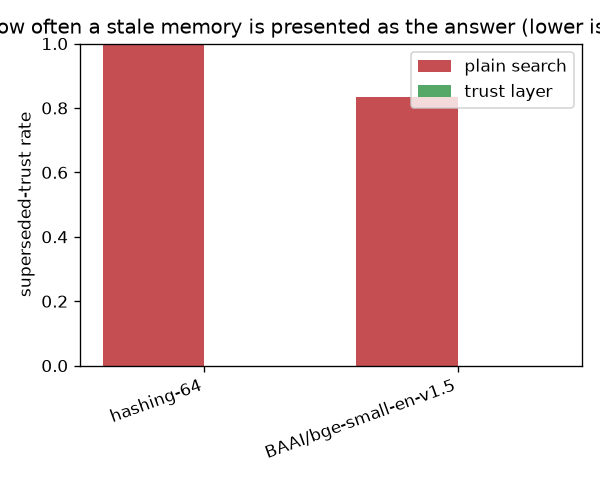
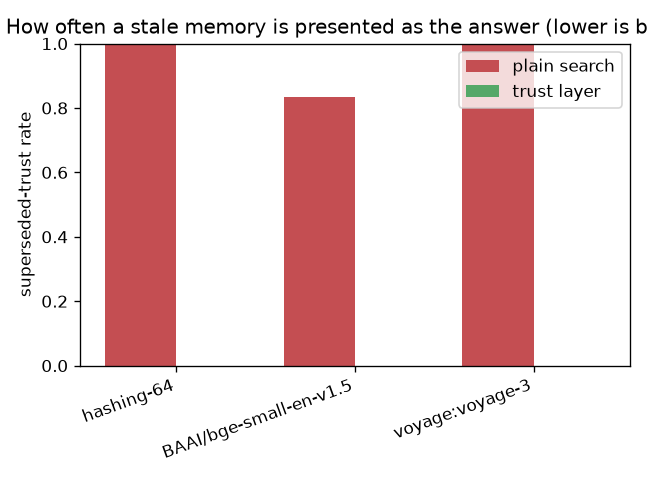
docs+results: entailment/supersession Phase-0 study; regenerated eval tables; v0.3.0
ENTAILMENT_SUPERSESSION_STUDY.md — what the expert comments taught, measured:
the near-miss class is real and threshold-blind (FCR 0.40-1.00); the QNLI
judge transfers with zero per-embedder tuning but is itself the new quality
bound; judge and threshold guard different failure classes (stack them);
the steelman timestamp heuristic still trusts stale memories 83-100% of the
time vs 0.00 for the declared edge. FINDINGS §5, WRITEUP Finding 5 + guards
table, README, RESULTS + charts regenerated (voyage rows re-run on the v0.2
corpus).

Changed region(s): [[0.0, 0.0312, 1.0, 0.9688], [0.24, 0.875, 0.39, 0.9688]]

diff --git a/recall/__init__.py b/recall/__init__.py
@@ -1,3 +1,3 @@
 """recall — Retrieval-Augmented Self-Recall for long-running agents."""
 
-__version__ = "0.2.0"
+__version__ = "0.3.0"

diff --git a/docs/ENTAILMENT_SUPERSESSION_STUDY.md b/docs/ENTAILMENT_SUPERSESSION_STUDY.md
@@ -1,0 +1,156 @@
+# What the comments taught me: entailment vs. threshold, and write-time supersession
+
+> Phase-0 study of the two strongest objections raised against the RE-call design — run on the
+> same harness, reported whether the numbers flattered the objections or not.
+
+Two expert comments on the self-recall writeup made claims sharp enough to test:
+
+1. **"A similarity score is not a confidence score."** The near-misses that hurt are
+   *high-similarity-and-wrong* — memories semantically adjacent to the query that do not answer
+   it — and a threshold-based gap guard waves them straight through, because their similarity
+   clears any calibrated threshold *by construction*. The abstention signal cannot be the
+   retriever's own score; it needs a separate judgment that the memory actually **entails** an
+   answer. Proximity is a candidate; entailment is the evidence.
+2. **"Supersession is a relation, not a property."** Timestamps fail because you are inferring a
+   relation between two memories at read time, when both look valid in isolation. Capture the
+   relation at **write time** (the new memo names what it replaces) and retrieval returns the
+   head of the chain. The residual failure mode — an author forgetting the link — is a much
+   better place to fail, because it is *lintable*.
+
+Both claims turn out to be substantially right. Neither turns out to be the whole story.
+
+---
+
+## 1. The near-miss class exists, and the threshold cannot see it (as predicted)
+
+We added a held-out challenge set of 10 **near-miss queries**: each names a distractor document
+that is strongly on-topic but does not contain the asked-for fact ("how much did the
+read-through cache reduce **memory usage**" against a memo that measures *latency*; "what
+**constant k** do we use in RRF" against a memo that defines the formula but never states the
+constant). The set is deliberately excluded from threshold calibration — a challenge set must
+not tune the guard it challenges.
+
+Baseline (calibrated cosine threshold, the v0.2 status quo), near-miss false-confident rate:
+
+| embedder | near-miss FCR @ calibrated threshold |
+|---|---|
+| hashing-64 | 1.00 |
+| bge-small | 0.80 |
+| voyage-3 | 0.40 |
+
+The commenter's mechanism is confirmed: these queries score *above* the answerable floor —
+the same threshold that scores FCR 0.00 on far-gap queries (FINDINGS §2) passes 40–100% of
+near-misses. There is no threshold to fix; the distractor's cosine is genuinely high.
+
+## 2. An entailment stage helps — as a *layer*, not a replacement
+
+We added an optional entailment stage (`recall/entailment.py`, `pip install recall[entail]`,
+OFF by default): a QNLI cross-encoder — "does this sentence answer this question?" — judges the
+verdict-ok hits, and an ok hit that does not entail the query is demoted to a new verdict
+`not_entailed`. The decision happens at the judge's own trained boundary; **there is no
+per-embedder constant to recalibrate**, which is the property Finding 2 said a score threshold
+cannot have. Three arms, same judge everywhere, zero per-embedder tuning:
+
+| embedder | arm | near-miss FCR | gap FCR | false-abstain | MRR ans | judge ms/query |
+|---|---|---|---|---|---|---|
+| hashing-64 | threshold | 1.00 | 1.00 | 0.00 | 0.696 | 0 |
+| hashing-64 | threshold+entail | **0.60** | 0.20 | 0.21 | 0.714 | 652 |
+| hashing-64 | entail-only | 0.60 | 0.40 | 0.07 | 0.881 | 1133 |
+| bge-small | threshold | 0.80 | 0.00 | 0.00 | 1.000 | 0 |
+| bge-small | threshold+entail | **0.50** | 0.00 | 0.07 | 0.929 | 184 |
+| bge-small | entail-only | 0.80 | 0.40 | 0.07 | 0.929 | 1061 |
+| voyage-3 | threshold | 0.40 | 0.00 | 0.00 | 1.000 | 0 |
+| voyage-3 | threshold+entail | 0.40 | 0.00 | 0.07 | 0.929 | 140 |
+| voyage-3 | entail-only | 0.80 | 0.40 | 0.07 | 0.929 | 1085 |
+
+(Latency measured on CPU. The judge column averages over the queries where the judge actually
+ran — in the stacked arm, queries the threshold already abstained on never reach the judge,
+which is also why stacking is much cheaper than entail-only.)
+
+Four honest readings:
+
+- **It works, transferably.** The stacked arm cuts near-miss FCR on the two embedders with
+  headroom (1.00→0.60, 0.80→0.50) and never hurts it, *with the identical judge and no
+  recalibration anywhere*. The claim "a decision, not a score, sidesteps the transfer problem"
+  survives contact with the data.
+- **It does not replace the threshold — the ablation kills that idea.** Judge-alone *degrades*
+  far-gap detection (gap FCR 0.00→0.40 on both semantic embedders): the QNLI judge, fed
+  nearest-noise from an uncovered topic, sometimes calls it an answer. The threshold catches
+  far gaps; the judge catches near-misses; **they guard different failure classes and must be
+  stacked**. The commenter's thesis needed this refinement.
+- **The judge is the new quality bound.** The residual FCR (0.40–0.60) is all one class: the
+  five surviving near-misses ask for a *specific absent detail* (a multiplier, a constant, a
+  duration, an affected-user count) inside a strongly on-topic memo, and a small QNLI model
+  judges "on-topic" as "answers". Finding 2 said gap detection is bounded by the embedder;
+  the same law applies one layer up — **abstention-by-entailment is bounded by the judge.**
+  A stronger judge (large NLI model, LLM-as-judge) is the obvious next experiment; the harness
+  now measures exactly that trade.
+- **The cost is real and must be stated.** ~140–650 ms/query on CPU (100× the plain search),
+  and a new false-abstain failure: the judge rejects one legitimately answerable query (1/14)
+  on *both* semantic embedders — q02, whose gold memo answers by **negation** ("do we retry on
+  4xx?" → "we do **not** retry on 4xx"). MRR on answerable queries dips 1.000→0.929
+  accordingly. Killing near-misses is not free.
+
+The cross-encoder *reranker* already in the stack is not this feature, and the distinction
+matters: it scores query+memo jointly but only **reorders** — the score is still thresholded
+downstream, so it inherits the calibration problem. The entailment stage emits a decision.
+
+## 3. Supersession: the timestamp heuristic loses to the declared relation
+
+v0.2 already implements the commenter's proposal — `supersedes:` frontmatter captured at write
+time, chain resolution, successor promotion (FINDINGS §4). What the harness lacked was the
+explicit strawman-vs-steelman comparison: *would timestamps have been enough?*
+
+We added a recency arm: **"among the confidently-relevant hits, trust the newest"** — the
+strongest reasonable version of the timestamp heuristic (pool = hits above the same calibrated
+threshold the guards use; a global newest-wins would be a strawman). The stale documents are
+re-indexed *after* the successors, simulating the re-sync/touch any living corpus performs
+constantly. Re-indexing identical text changes only `indexed_at`, so the other measurements are
+unaffected.
+
+| embedder | STR plain search | STR recency (steelman) | STR trust layer |
+|---|---|---|---|
+| hashing-64 | 1.00 | 0.83 | **0.00** |
+| bge-small | 0.83 | **1.00** | **0.00** |
+| voyage-3 | 1.00 | 1.00 | **0.00** |
+
+The timestamp heuristic trusts the stale memory 83–100% of the time — and on bge-small it is
+*worse than plain relevance ranking* (1.00 vs 0.83): the tie-break actively promotes the
+freshly-re-synced stale memo in the one case where ranking had preferred the successor. A
+per-document timestamp cannot see a two-document relation; making the timestamp "smarter"
+makes it more confidently wrong. The declared relation stays at 0.00 in the same runs.
+
+## 4. The residual failure mode is now lintable (`recall lint`)
+
+The write-time design fails exactly where the commenter said: an author who closes a decision
+without declaring the edge leaves an orphan that looks valid forever. That is invisible at
+read time — both memos are individually fine — but it is **checkable at write time**.
+`recall lint <corpus>` (no DB, no embedder) reports:
+
+- errors that break trust-layer correctness: `dangling-supersedes` (edge to a nonexistent
+  file), `self-supersedes`, `supersession-cycle`, `invalid-date`;
+- warnings that usually mean a missing edge: `version-sibling-unlinked` (`x_v1.md`/`x_v2.md`
+  naming with no edge) and `closure-marker-unlinked` (the body *says* "superseded/replaced by"
+  but the frontmatter declares nothing — the relation exists only in prose, where retrieval
+  cannot act on it).
+
+Exit code 1 on errors, so it drops into CI in one line. Both corpora in this repo pass clean.
+
+## 5. What changed in the repo
+
+- `recall/entailment.py` — `EntailmentJudge` protocol, `QnliEntailmentJudge`,
+  `apply_entailment()`; `trusted_search(..., entailment=judge)` opt-in; verdict `not_entailed`.
+- `recall/eval/near_miss.json` — 10 held-out near-miss queries; `run_nearmiss_eval()` scores
+  the three arms; `results/nearmiss_effect.png`.
+- `run_trust_eval()` — recency-steelman arm (`STR recency` column).
+- `recall/lint.py` + `recall lint` CLI — supersession-graph completeness checks.
+- All measured numbers reproduce with `make eval` (Voyage rows appear when `VOYAGE_API_KEY`
+  is set).
+
+## 6. Decision
+
+Entailment ships **OFF by default** as an optional stacked stage — proven useful against
+near-misses on this corpus, at a measured latency and false-abstain cost the caller must opt
+into, with the judge (not the threshold) now the binding quality constraint. The recency
+comparison closes the "why not just timestamps?" question with numbers. The lint closes the
+authorial gap in write-time supersession.

diff --git a/results/FINDINGS.md b/results/FINDINGS.md
@@ -119,3 +119,40 @@ superseded-trust rate: how often a stale memory is presented as the answer (lowe
   calibration comes from a small labeled query set (see §2 for why it must be per-embedder).
 
 Reproduce: `make eval` → the trust table in `RESULTS.md` + `results/trust_effect.png`.
+
+**Timestamps are not a substitute (steelman tested).** The trust table's `STR recency` column
+scores the strongest reasonable timestamp heuristic — "among the confidently-relevant hits,
+trust the newest", with the stale docs re-synced after their successors, as any living corpus
+does constantly. It trusts the stale memory 83–100% of the time, and on bge-small it is *worse
+than plain ranking* (1.00 vs 0.83): the tie-break promotes the freshly-touched stale memo
+exactly where ranking had preferred the successor. A per-document timestamp cannot see a
+two-document relation. Full discussion:
+[docs/ENTAILMENT_SUPERSESSION_STUDY.md §3](../docs/ENTAILMENT_SUPERSESSION_STUDY.md).
+
+## 5. Entailment abstention: the near-miss class needs a judge, and the judge needs the threshold
+
+The calibrated threshold (§2) catches *far* gaps; it cannot catch the **near-miss** — a
+high-similarity memory that does not answer the query — because the distractor's cosine clears
+any threshold by construction. On a held-out 10-query near-miss set (excluded from
+calibration), the threshold's false-confident rate is 0.40–1.00 per embedder.
+
+v0.3 adds an optional entailment stage (`recall[entail]`, OFF by default): a QNLI cross-encoder
+judges the verdict-ok hits and demotes non-answering ones to `not_entailed`. The decision is at
+the judge's own trained boundary — no per-embedder constant to recalibrate, and none was tuned:
+
+| embedder | near-miss FCR: threshold → +entail | gap FCR | false-abstain cost | judge ms/query |
+|---|---|---|---|---|
+| hashing-64 | 1.00 → **0.60** | 1.00 → 0.20 | 0.00 → 0.21 | 652 |
+| bge-small | 0.80 → **0.50** | 0.00 → 0.00 | 0.00 → 0.07 | 184 |
+| voyage-3 | 0.40 → 0.40 | 0.00 → 0.00 | 0.00 → 0.07 | 140 |
+
+Honest reading: the same judge transfers across embedders with zero retuning (the property a
+score threshold provably lacks, §2) — but the **judge-alone ablation degrades far-gap detection**
+(gap FCR 0.00→0.40): threshold and judge guard *different failure classes* and must be stacked.
+The residual near-miss FCR is the judge's own quality bound (a small QNLI model reads
+"on-topic" as "answers" when the query asks for an absent detail), and the cost is real:
+~100× latency and one answerable query (a *negation* answer: "we do **not** retry on 4xx")
+wrongly rejected on both semantic embedders. §2's law, one layer up: **abstention quality is
+bounded by the judge.** Full tables + arms:
+[docs/ENTAILMENT_SUPERSESSION_STUDY.md](../docs/ENTAILMENT_SUPERSESSION_STUDY.md) and the
+near-miss table in `RESULTS.md`.

diff --git a/results/RESULTS.md b/results/RESULTS.md
@@ -10,12 +10,32 @@ Reproduce the local (key-free) rows with `make eval` — needs Docker + the loca
 | BAAI/bge-small-en-v1.5 | dense | 0.200 | 1.000 | 0.964 | 0.974 | 1.00 | 1.00 |
 | BAAI/bge-small-en-v1.5 | hybrid | 0.200 | 1.000 | 1.000 | 1.000 | 1.00 | 1.00 |
 | BAAI/bge-small-en-v1.5 | hybrid+rerank | 0.200 | 1.000 | 1.000 | 1.000 | 1.00 | 1.00 |
+| voyage:voyage-3 | dense | 0.200 | 1.000 | 1.000 | 1.000 | 1.00 | 0.00 |
+| voyage:voyage-3 | hybrid | 0.200 | 1.000 | 1.000 | 1.000 | 1.00 | 0.00 |
+| voyage:voyage-3 | hybrid+rerank | 0.200 | 1.000 | 1.000 | 1.000 | 1.00 | 0.00 |
 
 ## Trust layer — superseded/expired memories vs plain search
 
 STR = superseded-trust rate: how often a stale memory was presented as the answer on the validity-sensitive queries (lower is better). The final two columns verify the trust layer does not change ordinary answerable retrieval.
 
-| embedder | STR baseline | STR trust | successor acc | abstain acc | MRR ans (base) | MRR ans (trust) |
-|---|---|---|---|---|---|---|
-| hashing-64 | 1.00 | 0.00 | 0.25 | 0.00 | 0.737 | 0.737 |
-| BAAI/bge-small-en-v1.5 | 0.83 | 0.00 | 0.75 | 1.00 | 1.000 | 1.000 |
+| embedder | STR baseline | STR recency | STR trust | successor acc | abstain acc | MRR ans (base) | MRR ans (trust) |
+|---|---|---|---|---|---|---|---|
+| hashing-64 | 1.00 | 0.83 | 0.00 | 0.25 | 0.00 | 0.737 | 0.737 |
+| BAAI/bge-small-en-v1.5 | 0.83 | 1.00 | 0.00 | 0.75 | 1.00 | 1.000 | 1.000 |
+| voyage:voyage-3 | 1.00 | 1.00 | 0.00 | 0.75 | 1.00 | 1.000 | 1.000 |
+
+## Entailment abstention — near-miss queries (arms A/B/C)
+
+Near-miss = a high-similarity memory that does NOT answer the query — the class a cosine threshold passes by construction. Arms: `threshold` = calibrated cosine threshold (status quo), `threshold+entail` = threshold plus the QNLI judge, `entail-only` = judge alone (ablation). The judge is identical across embedders — no per-embedder recalibration.
+
+| embedder | arm | near-miss FCR | gap FCR | false-abstain | MRR ans | judge ms/query | total ms/query |
+|---|---|---|---|---|---|---|---|
+| hashing-64 | threshold | 1.00 | 1.00 | 0.00 | 0.696 | 0 | 4 |
+| hashing-64 | threshold+entail | 0.60 | 0.20 | 0.21 | 0.714 | 652 | 658 |
+| hashing-64 | entail-only | 0.60 | 0.40 | 0.07 | 0.881 | 1133 | 1139 |
+| BAAI/bge-small-en-v1.5 | threshold | 0.80 | 0.00 | 0.00 | 1.000 | 0 | 24 |
+| BAAI/bge-small-en-v1.5 | threshold+entail | 0.50 | 0.00 | 0.07 | 0.929 | 184 | 168 |
+| BAAI/bge-small-en-v1.5 | entail-only | 0.80 | 0.40 | 0.07 | 0.929 | 1061 | 1089 |
+| voyage:voyage-3 | threshold | 0.40 | 0.00 | 0.00 | 1.000 | 0 | 332 |
+| voyage:voyage-3 | threshold+entail | 0.40 | 0.00 | 0.07 | 0.929 | 140 | 439 |
+| voyage:voyage-3 | entail-only | 0.80 | 0.40 | 0.07 | 0.929 | 1085 | 1420 |

diff --git a/docs/WRITEUP.md b/docs/WRITEUP.md
@@ -56,7 +56,9 @@ These are the point of the project. Each one converts a silent failure into an e
 | Guard | Silent failure it prevents | Mechanism |
 |---|---|---|
 | **`gap_warning`** | Confident retrieval on an uncovered topic | If the best dense cosine for a query is below a calibrated threshold, the result is flagged "probable corpus gap — treat as noise" instead of returning nearest-noise as if it were an answer. |
-| **trust verdicts + abstention** (v0.2) | Confidently building on a memory that is no longer true | Every hit returns confidence + provenance + validity: a verdict (`ok / superseded / expired / not_yet_valid / low_confidence / invalid_metadata`), a calibrated confidence, and `indexed_at`. A superseded or out-of-window memory loses to its retrieved successor — or, when no valid hit clears the calibrated threshold, to an explicit abstention with a reason. |
+| **trust verdicts + abstention** (v0.2) | Confidently building on a memory that is no longer true | Every hit returns confidence + provenance + validity: a verdict (`ok / superseded / expired / not_yet_valid / low_confidence / invalid_metadata / not_entailed`), a calibrated confidence, and `indexed_at`. A superseded or out-of-window memory loses to its retrieved successor — or, when no valid hit clears the calibrated threshold, to an explicit abstention with a reason. |
+| **entailment stage** (v0.3, opt-in) | Confident retrieval on a *near-miss* — a high-similarity memory that does not answer the query, which clears any cosine threshold by construction | An optional QNLI cross-encoder judges the verdict-ok hits ("does this sentence answer this question?") and demotes non-answering ones to `not_entailed`. A decision at the judge's own boundary, not another score to threshold — so nothing to recalibrate per embedder. OFF by default; measured cost and limits in [Finding 5](#finding-5--entailment-abstention-a-judged-decision-stacked-on-the-threshold-not-a-replacement). |
+| **`recall lint`** (v0.3) | An author closing a decision without declaring the supersession edge — an orphan memo that looks valid forever | Write-time completeness checks on the supersession graph (dangling/self/cyclic edges, malformed dates, version-sibling and closed-in-prose smells). No DB needed; exit 1 on errors, CI-ready. |
 | **freshness / staleness** | Serving stale memory as current | Every result reports how old the newest indexed content is; a stale index warns instead of silently serving rot. |
 | **anti-re-litigation** | Re-deciding a settled question | The intended call pattern: an agent runs `search()` *before* proposing an idea; a surfaced closed decision (that is **not** itself a `gap_warning`) tells it to back off. Demonstrated end-to-end in [`examples/self_recall_agent.py`](../examples/self_recall_agent.py). |
 
@@ -156,7 +158,25 @@ returns the superseded/expired memory as the answer 83-100% of the time; the tru
 presents it as trustworthy (superseded-trust rate 0.00 on both embedders) at zero cost to
 ordinary retrieval (identical answerable MRR). Abstention on expired-only queries works on the
 calibrated semantic embedder (2/2) and not at all on the weak one (0/2) - the same
-embedder-bound limit as Finding 2. Full table + limits: [FINDINGS.md §4](../results/FINDINGS.md).
+embedder-bound limit as Finding 2. The eval also scores the *steelman* timestamp alternative —
+"among the confidently-relevant hits, trust the newest", with stale docs re-synced later as any
+living corpus does: it trusts the stale memory 83–100% of the time and on bge-small is worse
+than plain ranking. Supersession is a relation between two documents; a per-document timestamp
+cannot see it. Full table + limits: [FINDINGS.md §4](../results/FINDINGS.md).
+
+### Finding 5 — entailment abstention: a judged decision stacked on the threshold, not a replacement
+
+The calibrated threshold cannot see the **near-miss** class — a high-similarity memory that
+does not answer the query (baseline false-confident rate 0.40–1.00 on a held-out 10-query
+challenge set). An optional QNLI judge (v0.3, `recall[entail]`, OFF by default) demotes
+non-answering hits and cuts near-miss FCR to 0.40–0.60 with the *identical judge on every
+embedder — no recalibration*, the transfer property Finding 2 proved a score threshold lacks.
+The ablation is the honest half: judge-alone *degrades* far-gap detection (0.00→0.40) — the
+threshold and the judge guard different failure classes and must be stacked — and the costs
+are measured: ~100× latency, one negation-phrased answerable query wrongly rejected (MRR
+1.000→0.929). Abstention quality is bounded by the judge, exactly as gap detection is bounded
+by the embedder. Full study:
+[docs/ENTAILMENT_SUPERSESSION_STUDY.md](ENTAILMENT_SUPERSESSION_STUDY.md).
 
 ## 4. What this demonstrates
 

diff --git a/README.md b/README.md
@@ -43,6 +43,8 @@ retrieves **before** the agent acts, returns **confidence + provenance + validit
 - 🎯 **Calibrated abstention** — the confidence threshold is calibrated *per embedder* against a labelled query set (`recall calibrate`); when no valid hit clears it, the result abstains with a reason instead of answering.
 - ⏱️ **Freshness-aware** — every result reports how stale the index is, so a rotting memory warns instead of silently serving old facts.
 - 🔁 **Anti-re-litigation** — meant to be queried *before* re-proposing an idea, so closed decisions and falsified hypotheses resurface first.
+- ⚖️ **Entailment stage (opt-in)** — a QNLI judge catches the **near-miss**: a high-similarity memory that doesn't actually answer the query (which clears any cosine threshold *by construction*). A decision, not another score — nothing to recalibrate per embedder. OFF by default; measured cost in [Finding 5](results/FINDINGS.md).
+- 🧹 **`recall lint`** — write-time checks on the supersession graph (dangling/cyclic `supersedes:`, versioned siblings with no edge, closures declared only in prose). No DB needed; exit 1 on errors, CI-ready.
 - 🧱 **Production-shaped** — PostgreSQL + pgvector, hybrid dense + full-text retrieval fused with RRF, cross-encoder reranking, and an MCP server. Integration-tested on a real database.
 
 ## 🧭 How it works
@@ -99,7 +101,7 @@ precision@k, recall@k, MRR, nDCG, and a guard-specific **false-confident rate**.
   <img src="results/guard_effect.png" width="48%" alt="Guard effect: false-confident rate on unanswerable queries">
 </p>
 
-Four **honest** findings — including what *didn't* work:
+Six **honest** findings — including what *didn't* work:
 
 - 🧾 **Similarity cannot see supersession — the trust layer can.** On validity-sensitive queries
   (worded deliberately closer to the *stale* memory), plain search returns the superseded/expired
@@ -118,10 +120,22 @@ Four **honest** findings — including what *didn't* work:
   corpus the base already saturates (Δ **+0.00**); on an opaque-jargon corpus it can't decode,
   fine-tuning lifts held-out MRR **0.31 → 0.55 (+79%)** and generalizes to unseen paraphrases.
   → *Measure the base–corpus gap before fine-tuning.* **[Read the study →](docs/RAG_TRAINING_STUDY.md)**
+- ⚖️ **Near-misses need a judge — and the judge needs the threshold.** On a held-out set of
+  high-similarity-but-wrong queries the calibrated threshold is blind (FCR **0.40–1.00**, by
+  construction); an optional QNLI entailment stage cuts it (**1.00→0.60, 0.80→0.50**) with the
+  *identical judge on every embedder, zero recalibration* — but judge-alone *degrades* far-gap
+  detection (0.00→0.40): they guard **different failure classes, so stack them**. Costs measured:
+  ~100× latency, one negation-phrased answer wrongly rejected.
+  **[Read the study →](docs/ENTAILMENT_SUPERSESSION_STUDY.md)**
+- ⏰ **Timestamps cannot replace declared supersession — even steelmanned.** "Trust the newest
+  relevant hit" (stale docs re-synced later, as real corpora constantly do) still trusts the stale
+  memory **83–100%** of the time — and on bge-small it's *worse than plain ranking*. Supersession
+  is a relation between two documents; a per-document timestamp can't see it. The declared
+  `supersedes:` edge stays at **0.00** in the same runs.
 
 > Full methodology + per-embedder tables → **[results/FINDINGS.md](results/FINDINGS.md)**.
 
-✅ **117 tests — the DB-touching ones against a real pgvector container** (no mock DB), verified in CI, with a
+✅ **141 tests — the DB-touching ones against a real pgvector container** (no mock DB), verified in CI, with a
 dependency audit.
 
 ## 🏭 Where this comes from
@@ -152,6 +166,7 @@ Default embedder is local **FastEmbed** (no key); `--embedder hashing` is a full
 python -m recall.cli index ./path/to/markdown   # index your own docs
 python -m recall.cli search "your question"     # -> verdicts + confidence + gap/freshness flags
 python -m recall.cli calibrate recall/eval/queries.json   # per-embedder abstention threshold -> calibration.json
+python -m recall.cli lint ./path/to/markdown    # supersession-graph completeness (no DB needed)
 ```
 
 Point `RECALL_DSN` at any Postgres to use your own database. Declare validity in the memory